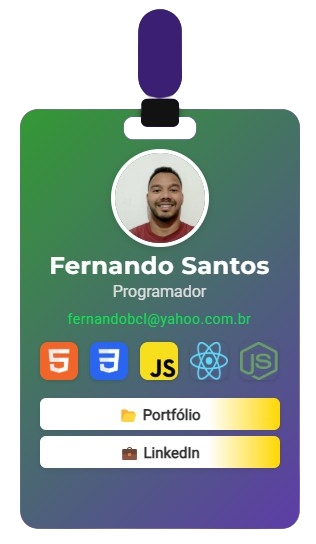
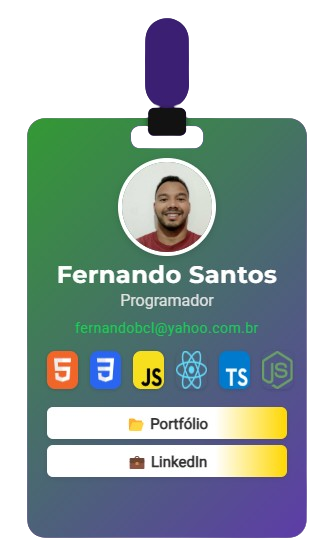
Feat:TS

Changed region(s): [[0.057, 0.0, 0.9684, 0.9688]]

diff --git a/index.html b/index.html
@@ -29,6 +29,7 @@
         <img src="./img/css.png" alt="CSS" title="CSS" onclick="mudarCor('#264de4')" />
         <img src="./img/js.png" alt="JavaScript" title="JavaScript" onclick="mudarCor('#F7DF1E')" />
         <img src="./img/react.png" alt="React" title="React" onclick="mudarCor('#61DAFB')" />
+        <img src="./img/ts.png" alt="TS" title="TS" onclick="mudarCor('#007acc')" />
         <img src="./img/node.png" alt="Node.js" title="Node.js" onclick="mudarCor('#339933')" />
       </div>
 

diff --git a/CSS/styles.css b/CSS/styles.css
@@ -225,7 +225,7 @@ top: 15px;
     filter: drop-shadow(0 0 1px #0008);
     transition: transform 0.2s ease; */
 
-    width: 38px;
+    width: 31px;
     height: 38px;
     border-radius: 8px;
     box-shadow: 0 1px 4px rgba(0,0,0,0.15);
